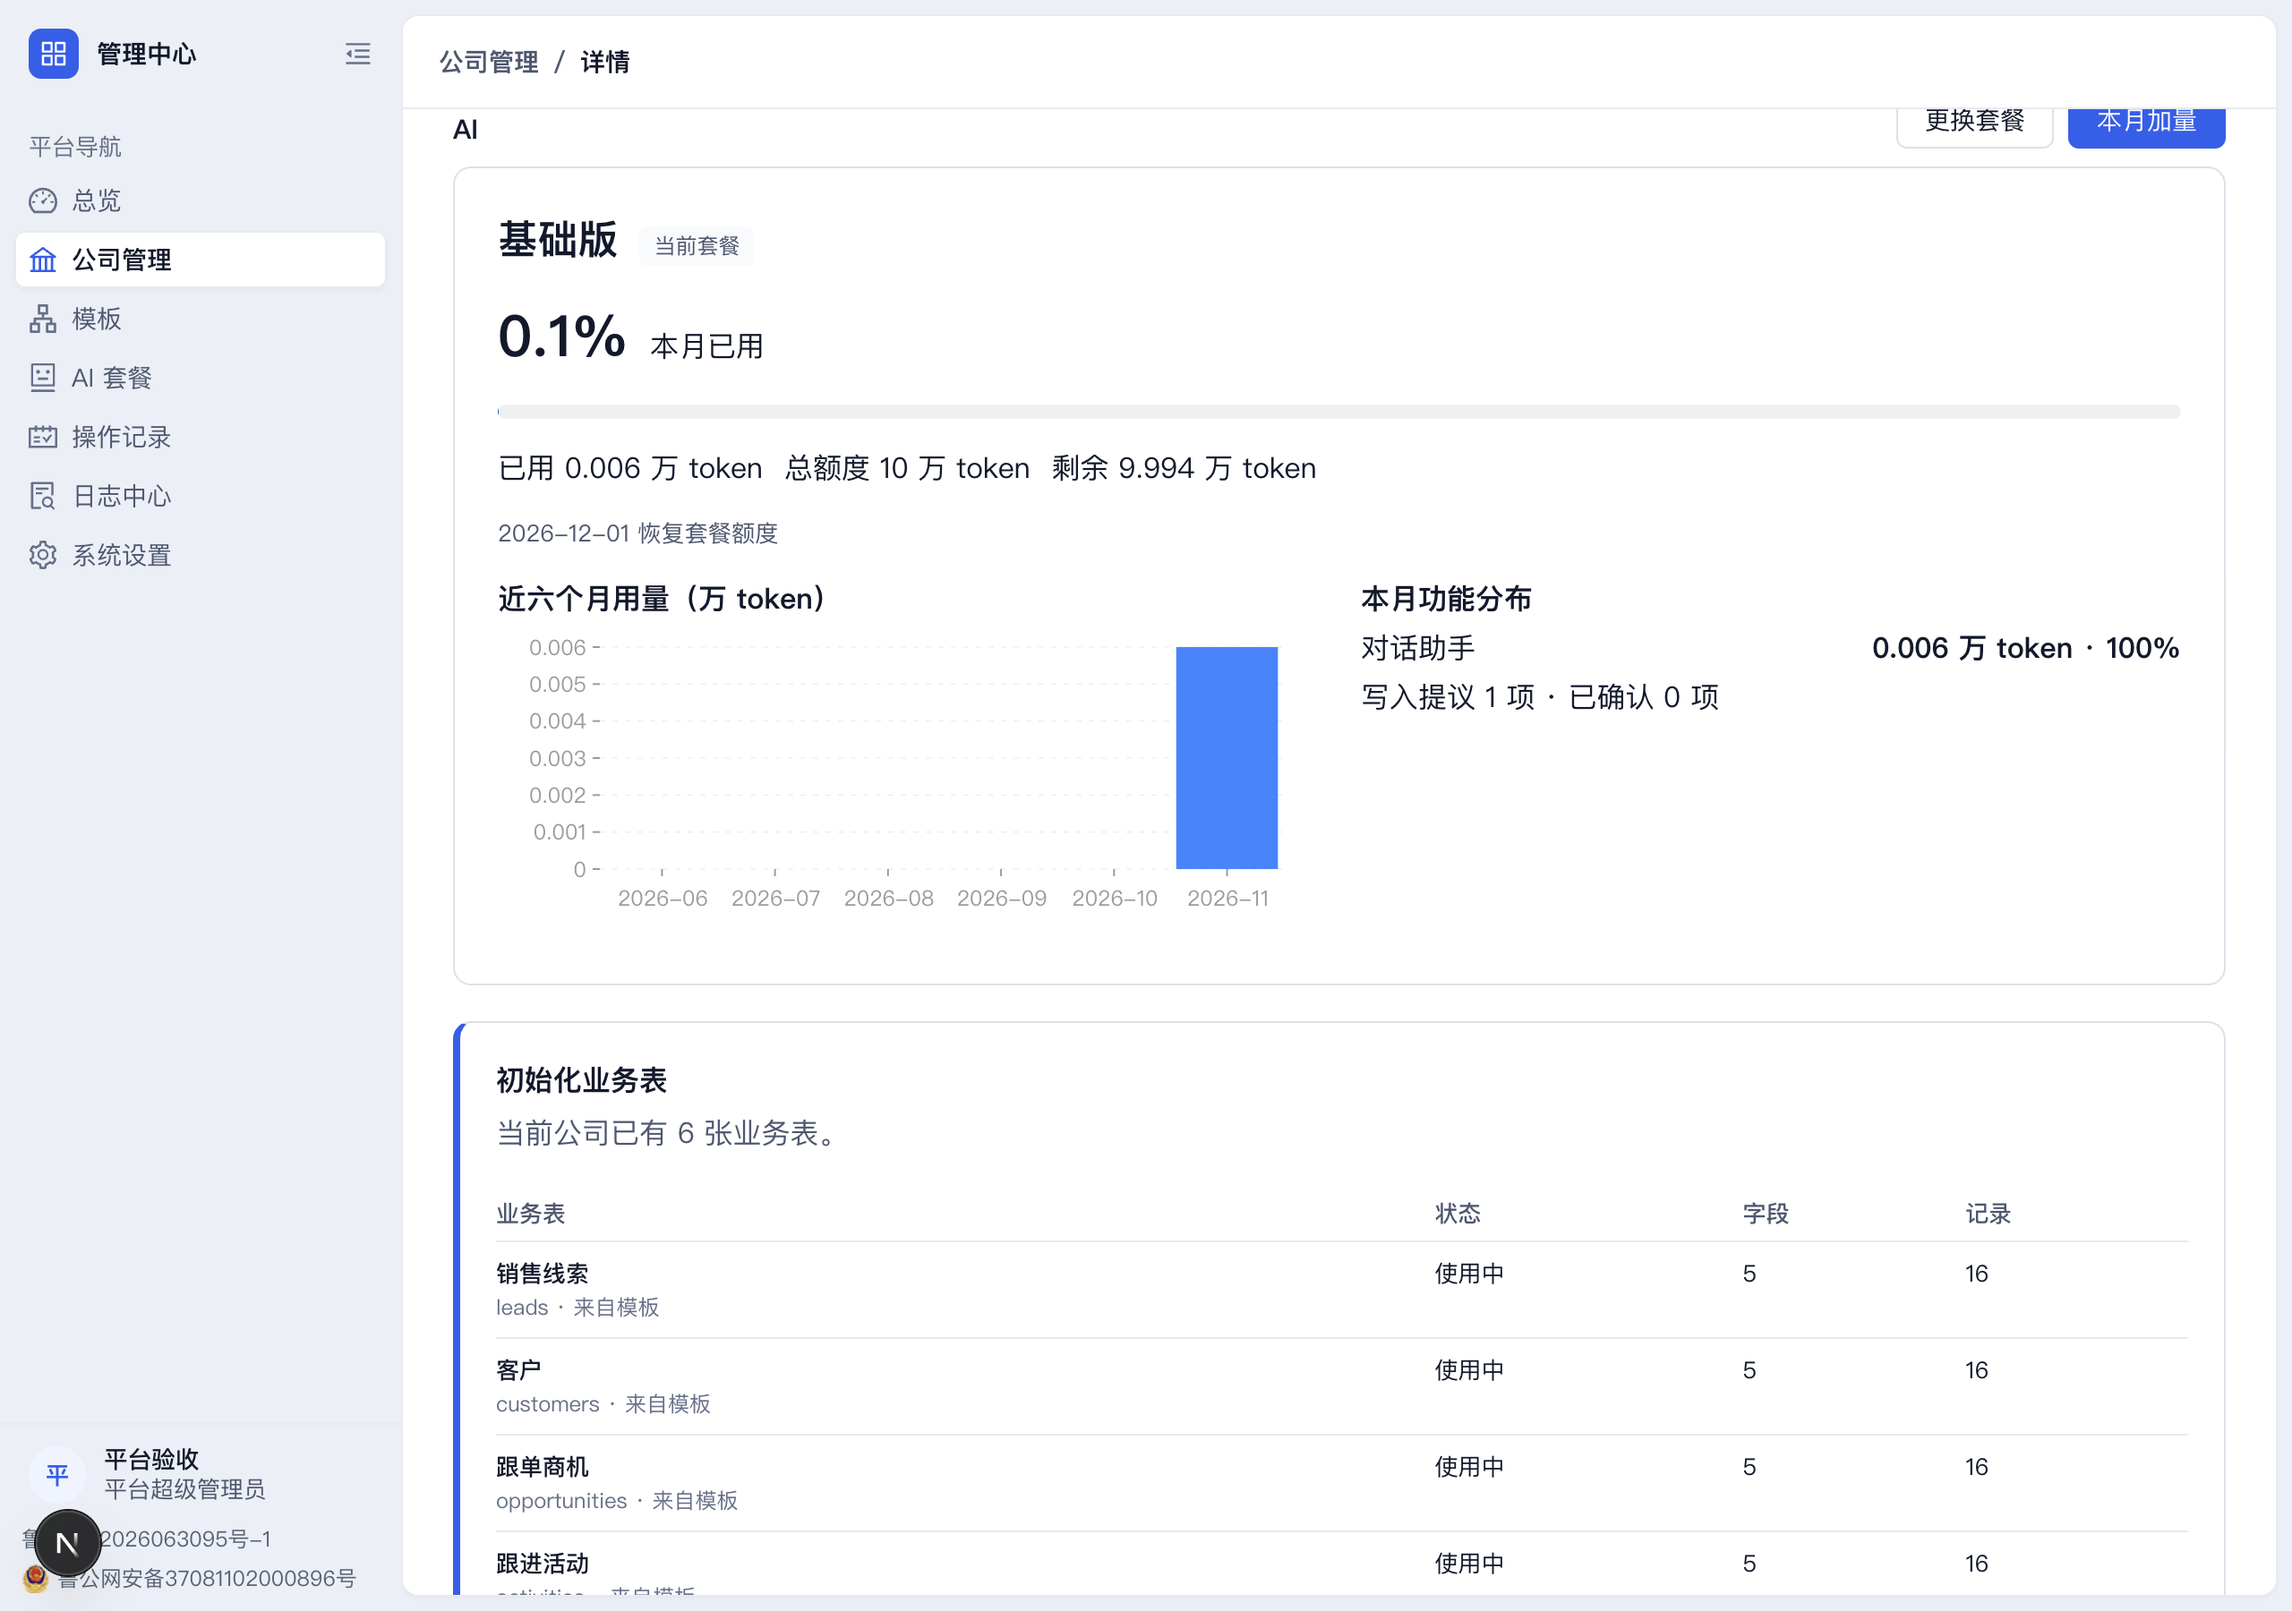
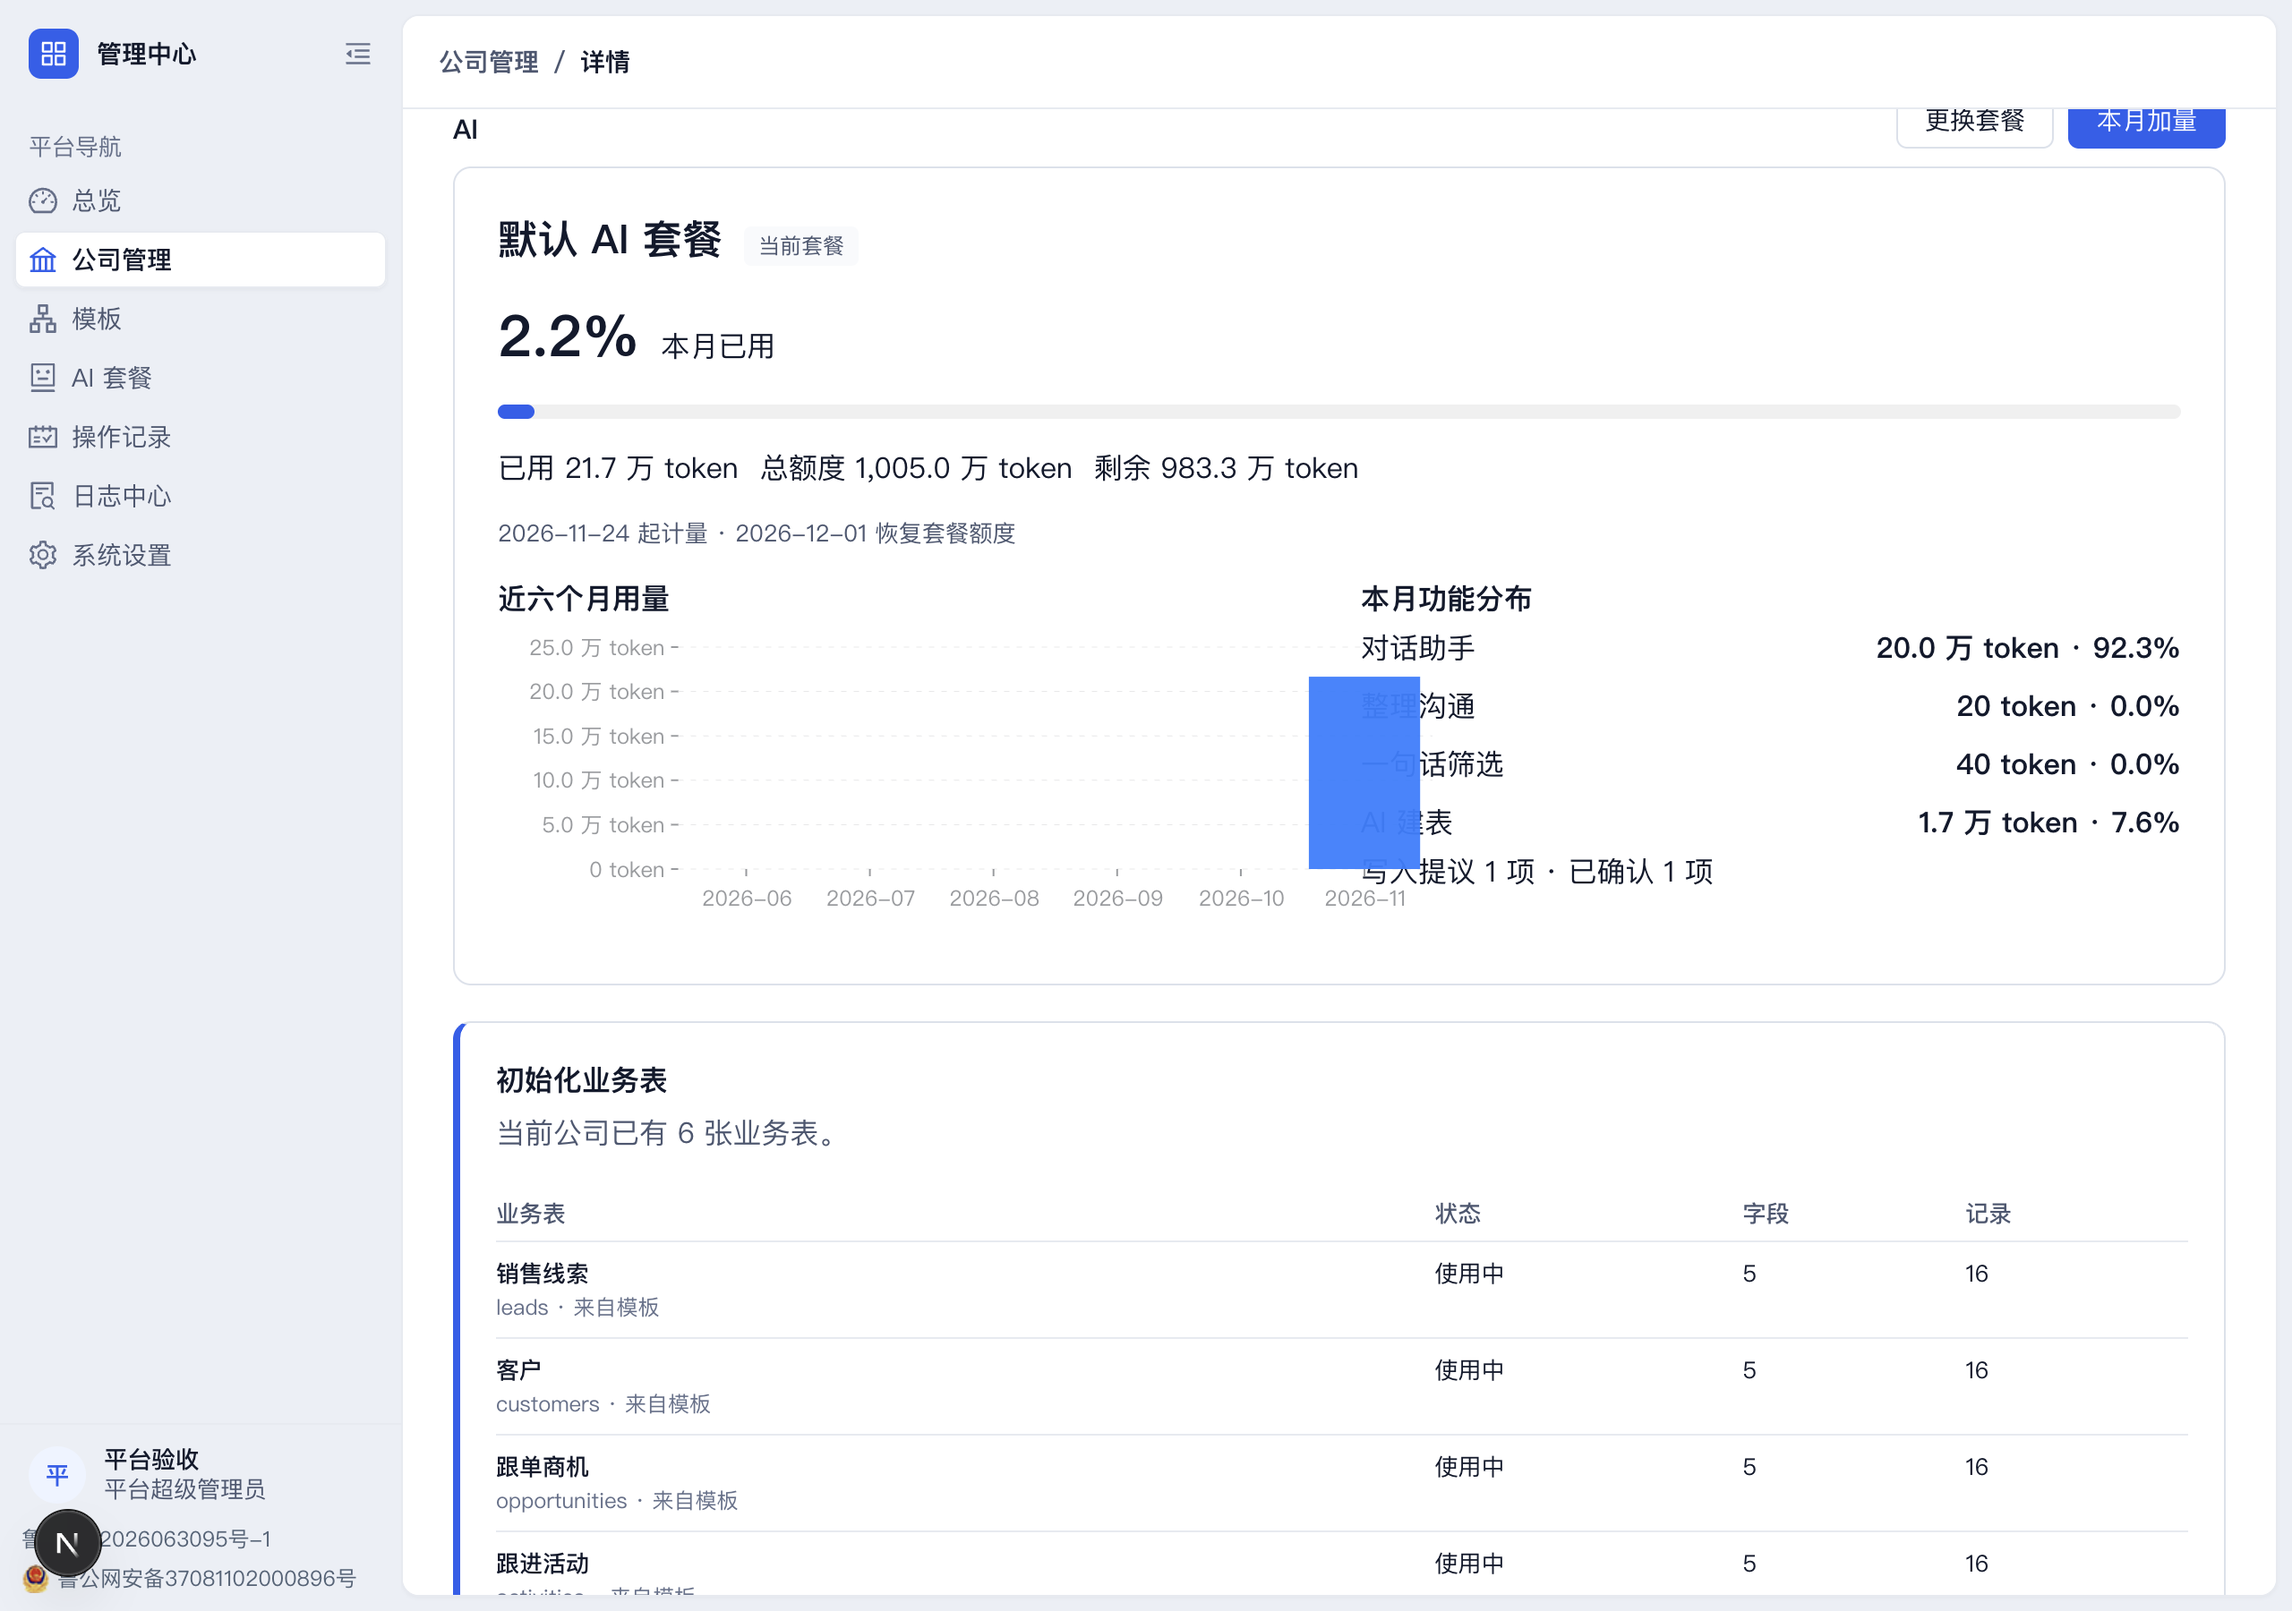
docs: 复测治理页面数字格式、选项标签和耗尽状态并更新截图

diff --git a/docs/audits/2026-11-24/ai-governance/README.md b/docs/audits/2026-11-24/ai-governance/README.md
@@ -94,4 +94,9 @@ AI_GOVERNANCE_LIVE=1 node -r ts-node/register/transpile-only test/evals/governan
 - 平台 AI 套餐：[1440](plans-1440.png)、[1280](plans-1280.png)。公司详情 AI 分区：[1440](company-1440.png)、[1280](company-1280.png)。
 - 公司 AI 设置：[1440](workspace-1440.png)、[390](workspace-390.png)。边界状态：[零用量公司](empty-usage.png)、[员工额度耗尽](employee-quota-exhausted.png)。
 
-操作详情当前可以显示单选选项的内部值，例如 proposal → negotiation。可后续取字段定义显示中文标签。
+## 第三轮页面复测
+
+- 在非空的[平台公司详情](company-1440.png)读取 21.7 万 token。六个月图的纵轴使用 5.0 万、10.0 万等带 token 单位的刻度，功能分布里的小数额显示为 20 token、40 token。在[公司设置](workspace-1440.png)，每日趋势只有一天数据，显示 21.7 万 token，成员用量的百分比保留一位小数。
+- 刘洋打开赵晨的已确认记录，看到「商机阶段 方案报价 → 商务谈判」。截图保留原话、确认人及对应记录入口。[操作详情](operation-select-label.png)
+- 将隔离演示公司的额度调低后，赵晨的[助手](employee-quota-exhausted.png)显示「本月 AI 额度已用完，12月1日恢复。如需增加，请联系管理员」。输入框和发送按钮已禁用，快捷问题隐藏。验收后恢复了默认套餐并删除本次创建的临时测试套餐。
+- 1440 宽的公司设置页中，「套餐包含的功能」与「额度分配」两个标题实测顶边相同，字号均为 15px。额度说明和在职人数为 13px。390 宽的排列见[手机截图](workspace-390.png)。
